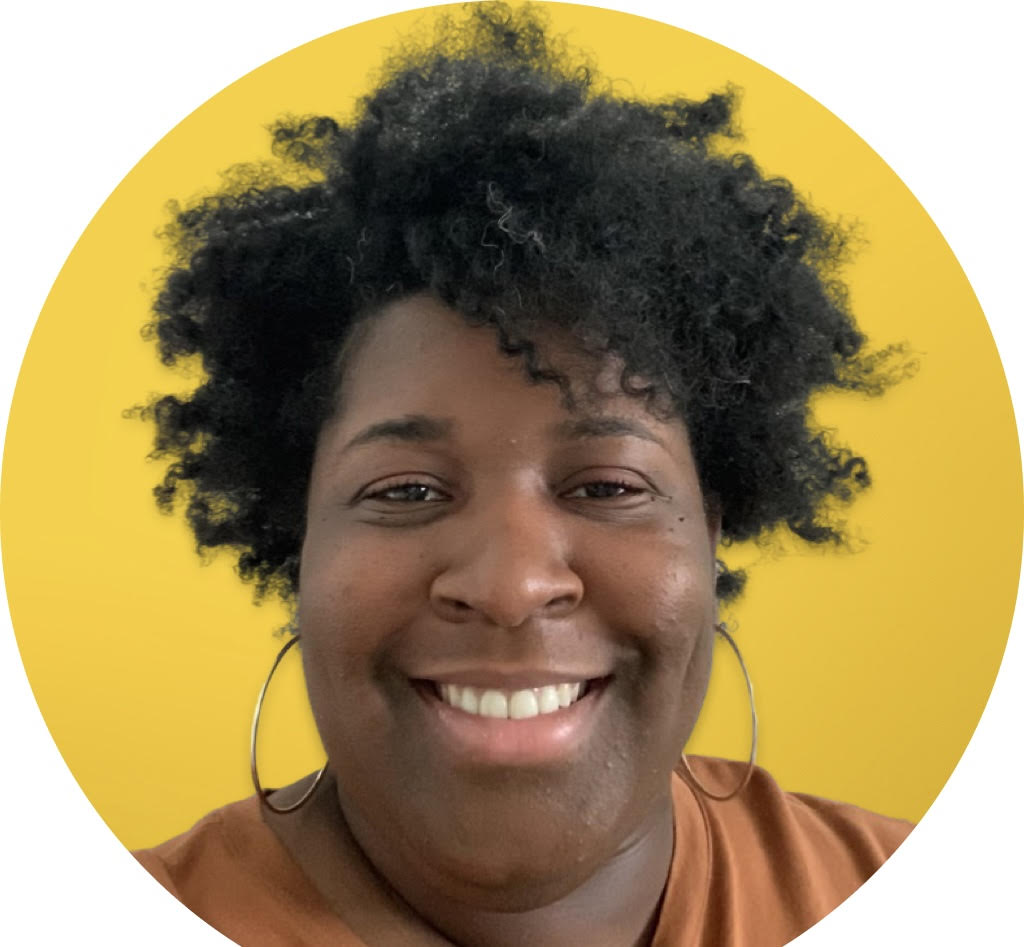
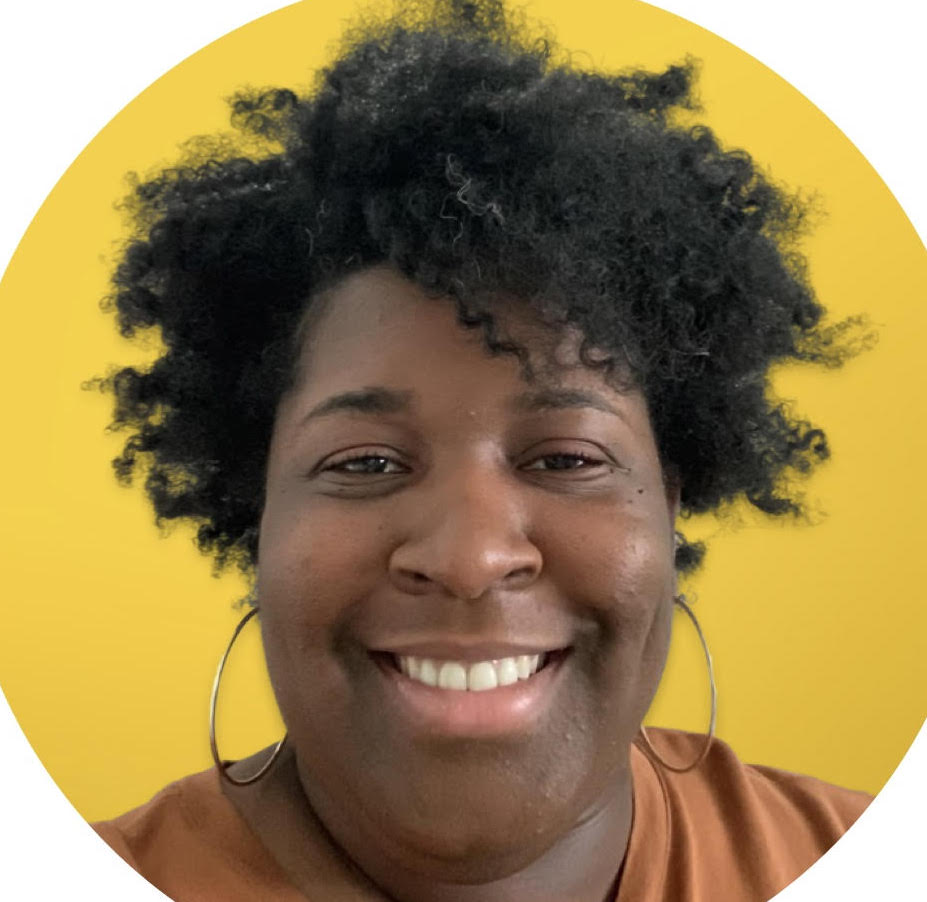
added optional profile photo and corrected CSS and href for resume link

diff --git a/my-portfolio/src/Components/NavBar.js b/my-portfolio/src/Components/NavBar.js
@@ -4,7 +4,8 @@ import github from '../assets/images/icons8-github-96.svg'
 import linkedin from '../assets/images/icons8-linkedin-circled.svg'
 
 // may or may not use
-import { useState, 
+import {
+    useState,
     // useEffect 
 } from 'react'
 
@@ -30,15 +31,15 @@ function NavBar() {
     }
 
     return (
-        <Navbar expand="lg" className='header' 
+        <Navbar expand="lg" className='header'
         // className={scrolled ? "scrolled" : ""}
         >
             <Container className='navigation'>
                 <Navbar.Brand href="#home" className='name'>
                     <h1> {'{ CG }'}
                         {/* CHARNAYE GRIER */}
-                        </h1>
-                    </Navbar.Brand>
+                    </h1>
+                </Navbar.Brand>
                 <Navbar.Collapse id="basic-navbar-nav">
                     <Nav className="me-auto">
                         <Nav.Link href="#home" className={activeLink === 'home' ? 'active navbar-link' : 'navbar-link'} onClick={() => onUpdateActiveLink('home')}><h1>Home</h1></Nav.Link>
@@ -56,7 +57,7 @@ function NavBar() {
                             <a href='https://github.com/charnaye95/' target='_blank' rel='noreferrer' className='github-link'><img src={github} alt='' className='social-logo'></img></a>
                             <a href='https://www.linkedin.com/in/charnayegrier/' target='_blank' rel='noreferrer' className='github-link'><img src={linkedin} alt='' className='social-logo'></img></a>
                         </div>
-                        <a href='file://C:/Users/charnaye95/Documents/GeneralAssembly/Outcomes/Portfolio/my-portfolio/src/assets/Charnaye Grier Resume.docx' className='resume'>Resume</a>
+                        <a href='https://docs.google.com/document/d/1p09eVCmTVXcboatNZFYcFep7SlrIy5v56y6ulwPvDXg/edit?usp=sharing' target='_blank' rel='noreferrer' className='resume navbar-link'>Resume</a>
                     </span>
                 </Navbar.Collapse>
             </Container>

diff --git a/my-portfolio/src/App.css b/my-portfolio/src/App.css
@@ -12,11 +12,11 @@ html {
 body {
   font-weight: 300;
   /* font-family: 'Josefin Sans', sans-serif; */
-  font-family: 'Jost', sans-serif;
+  font-family: "Jost", sans-serif;
 
   overflow-x: hidden;
   position: relative;
-  background-color: #55A79C !important;
+  background-color: #55a79c !important;
   color: #fff9fb !important;
 }
 .navigation {
@@ -53,16 +53,18 @@ a:hover {
   /* box-shadow: 0 5px 15px; */
 }
 .active {
-  color:#0b0500;
+  color: #0b0500;
 }
 .navbar-text {
   display: flex;
 }
 .resume {
-  border: #fff9fb solid;
+  padding-top: 25px;
+  /* border: #fff9fb solid;
   border-width: thin;
-  padding: 10px 15px;
+  padding: 10px 15px; */
   font-weight: bold;
+  font-size: large;
 }
 .banner {
   padding: 50px 150px;
@@ -79,15 +81,17 @@ a:hover {
 }
 .profile {
   width: 25vw;
-border-radius: 30px;
+  border-radius: 50%;
 }
 h2 {
   font-size: 30px;
 }
-.hello, .about-text {
+.hello,
+.about-text {
   color: #0b0500;
 }
-.hello, .title {
+.hello,
+.title {
   padding-left: 10px;
 }
 /* Look more into CSS stuff later lets get bones done */
